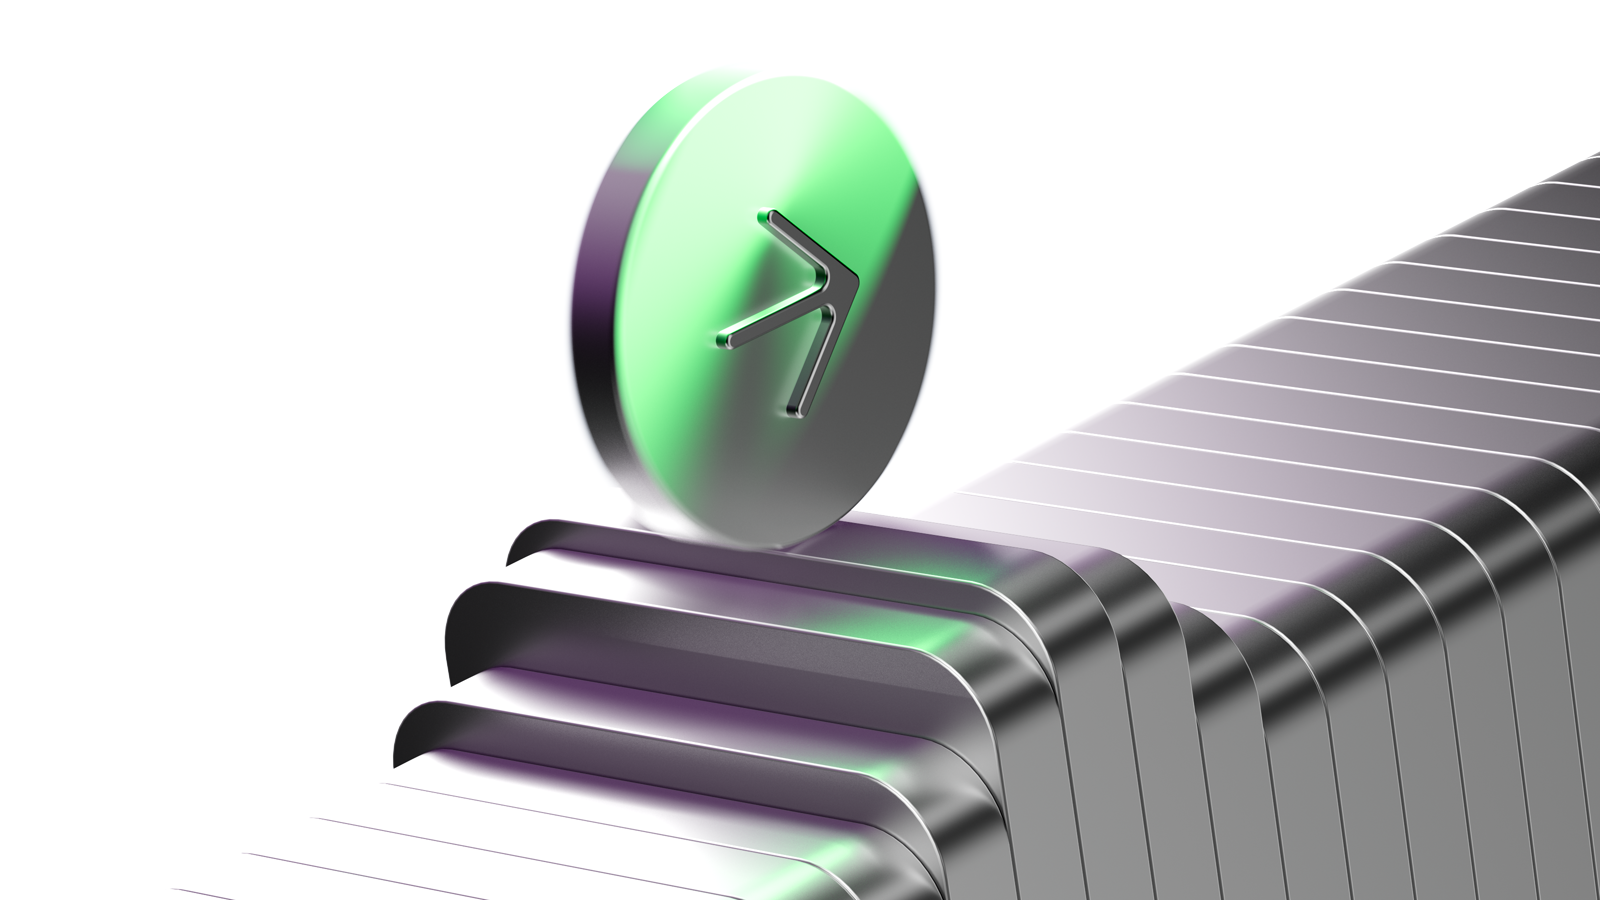
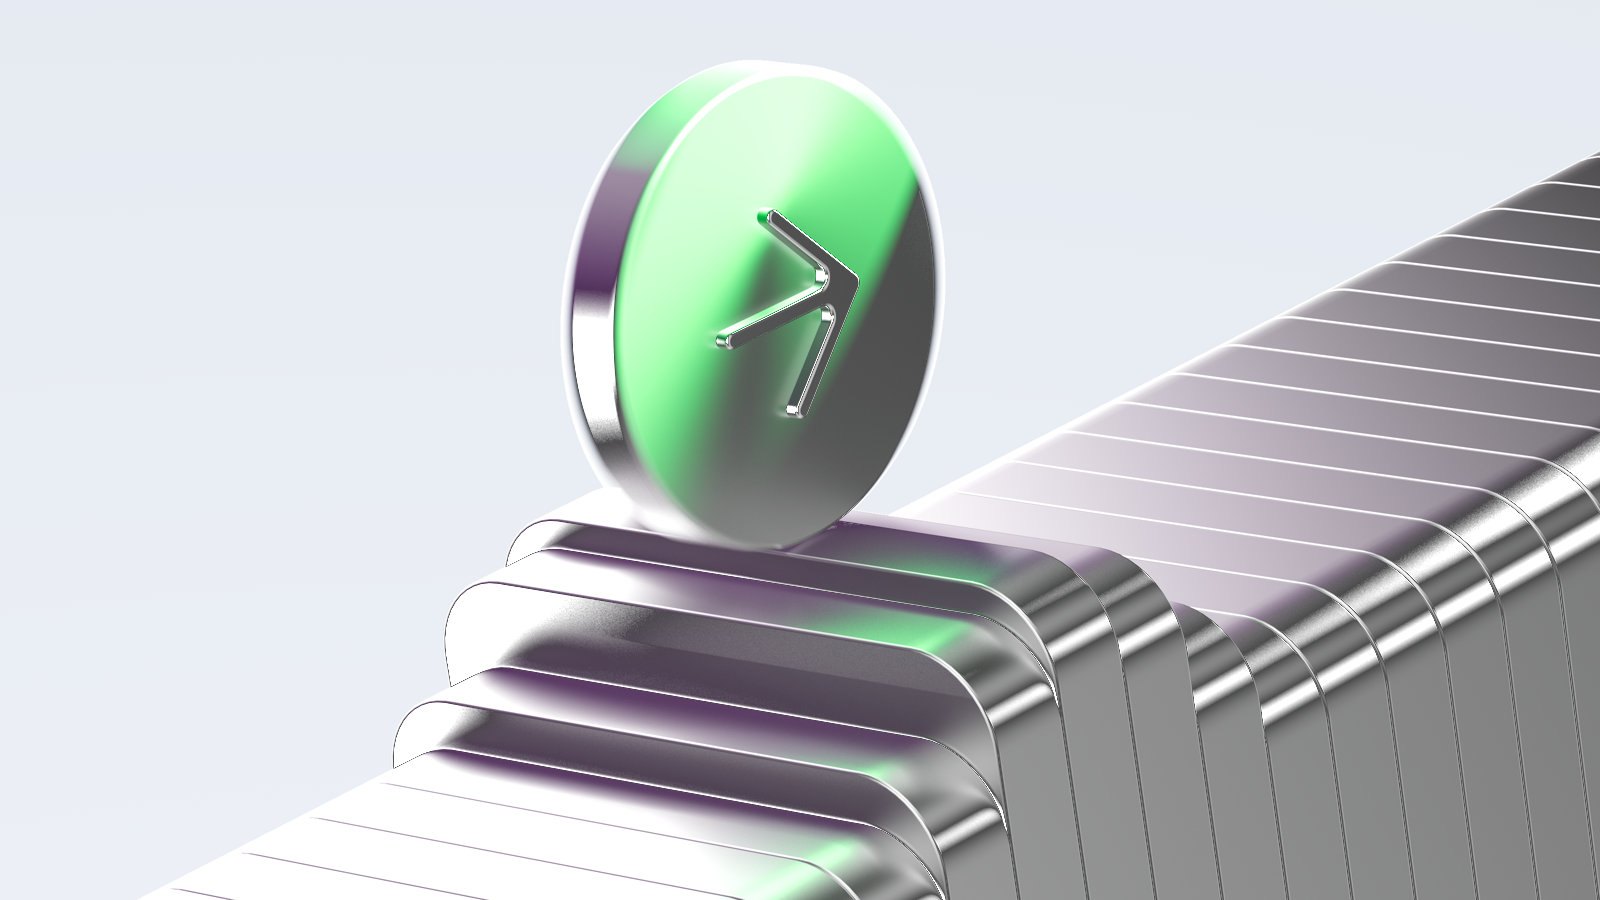
Make Mega 5G 3D art visible on light backgrounds
Knock out the black plate from the Figma PNGs and drop mix-blend-screen so the chrome 5G objects read on #F2F4F7 wells. Decorative art ignores pointer events.

diff --git a/src/components/landings/mega-art.tsx b/src/components/landings/mega-art.tsx
@@ -23,12 +23,12 @@ export function MegaArt({
   imgClassName?: string;
 }) {
   return (
-    <div className={cn(mf.well, className)}>
+    <div className={cn("pointer-events-none", mf.well, className)}>
       <img
         src={withBase(megaArts[art])}
         alt=""
         className={cn(
-          "pointer-events-none absolute inset-0 size-full object-cover object-center mix-blend-screen",
+          "pointer-events-none absolute inset-0 size-full object-contain object-center",
           imgClassName,
         )}
       />
@@ -65,7 +65,8 @@ export function MegaHero({
       </div>
       <MegaArt
         art={art}
-        className="relative mt-8 h-[220px] rounded-[24px] sm:h-[280px] lg:absolute lg:inset-y-0 lg:right-0 lg:mt-0 lg:h-full lg:w-[50%] lg:rounded-none"
+        className="relative mt-8 h-[220px] rounded-[24px] sm:h-[280px] lg:absolute lg:inset-y-0 lg:right-0 lg:mt-0 lg:h-full lg:w-[52%] lg:rounded-none"
+        imgClassName="scale-[1.2] object-[70%_center] lg:object-right"
       />
     </section>
   );
